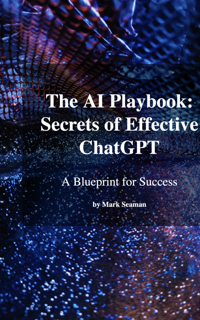
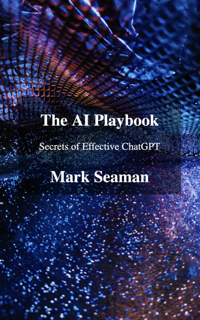
AI Publication

diff --git a/ai/Images/Cover.html b/ai/Images/Cover.html
@@ -19,10 +19,10 @@
 
         .book-overlay {
             position: absolute;
-            top: 20%;
+            top: 30%;
             left: 10%;
             width: 80%;
-            height: 50%;
+            height: 30%;
             background-color: rgba(0, 0, 0, 0.5);
             display: flex;
             flex-direction: column;
@@ -38,7 +38,7 @@
         }
 
         .book-author {
-            font-size: 1.5rem;
+            font-size: 4rem;
             color: white;
             margin-bottom: 0.5rem;
         }
@@ -53,11 +53,11 @@
 
 <body>
     <div class="book-cover">
-        <img src="./CoverImage.jpg" alt="The AI Playbook: Secrets of Effective ChatGPT">
+        <img src="./CoverImage.png" alt="The AI Playbook: Secrets of Effective ChatGPT">
         <div class="book-overlay">
-            <h1 class="book-title">The AI Playbook: Secrets of Effective ChatGPT</h1>
-            <p class="book-tagline">A Blueprint for Success</p>
-            <h2 class="book-author">by Mark Seaman</h2>
+            <h1 class="book-title">The AI Playbook</h1>
+            <p class="book-tagline">Secrets of Effective ChatGPT</p>
+            <h2 class="book-author">Mark Seaman</h2>
         </div>
     </div>
 </body>

diff --git a/ai/AI/EditorialDesk/Draft.md b/ai/AI/EditorialDesk/Draft.md
@@ -1,1 +1,101 @@
-new file
+# How AI Can Revolutionize the Writing Process
+
+Writing is both an art and a craft. It requires creativity and skill, but it also demands discipline
+and perseverance. As a writer and teacher, my goal is to help other authors harness the power of
+artificial intelligence (AI) to speed up their work while improving the quality. In this article, I
+will show you how AI can transform the editorial desk, enhance the refinement process, and
+facilitate iterative development.
+
+## The Editorial Desk: Where Ideas Take Shape
+
+The editorial desk is where the magic happens. It's the place where authors pour their thoughts onto
+the paper, refining them over time to create a masterpiece. Traditionally, the process involves
+several drafts, each focusing on a specific aspect of improvement.
+
+First, there's the initial draft, where authors capture their ideas without worrying about
+structure, clarity, or polish. It's the raw material from which the final piece will emerge. Next
+comes the rewrite for structure. Here, authors rearrange paragraphs, reorganize ideas, and ensure a
+logical flow. Then follows the rewrite for clarity, where authors refine their language, simplify
+complex concepts, and make their writing accessible to a wider audience. Lastly, there's the
+rewrite for polish, where minute details like word choice, tone of voice, grammar, and spelling are
+perfected.
+
+## Refinement Made Smarter with AI
+
+The refinement process is where AI can truly shine. By leveraging the power of AI, authors can
+expedite and enhance their work across various dimensions. AI algorithms can assist in content
+structure and flow, word selection, tone of voice, and even grammar and spelling.
+
+Let's start with content structure and flow. AI tools can analyze the logical flow of your writing,
+identifying areas where the narrative might be disjointed or the argument might lack coherence. By
+suggesting structural improvements and highlighting gaps in the flow, AI can be an invaluable asset
+in crafting a well-structured piece.
+
+Word selection is another area where AI can be of great help. With access to vast databases of
+language usage, AI algorithms can provide alternative word choices, making your writing more
+precise, evocative, and engaging. Whether you're searching for a stronger verb or a more
+descriptive adjective, AI can assist in finding the perfect word to bring your ideas to life.
+
+Furthermore, AI can aid in refining the tone of voice. Whether your writing requires a formal,
+academic tone, or a casual, conversational style, AI can suggest adjustments to ensure your voice
+resonates with your intended audience. By analyzing patterns in successful writing and identifying
+markers of different tones, AI can help you strike the right chord with your readers.
+
+Finally, let's talk about grammar and spelling. While human proofreaders are still indispensable,
+AI-powered grammar and spell-checkers can serve as an additional line of defense. These tools can
+detect common errors, highlight potential pitfalls, and suggest corrections, making the editing
+process more efficient and effective.
+
+## Iterative Development for Continuous Improvement
+
+When it comes to writing, the journey is as important as the destination. Iterative development is a
+vital component of the writing process, allowing authors to refine their work through multiple
+iterations. AI can facilitate this iterative approach by providing valuable insights and
+recommendations at each stage.
+
+Every draft you produce should be an improvement over the previous one. By leveraging AI, you can
+write the content 3-4 times, refining it with the guidance of AI algorithms at each iteration. This
+iterative approach ensures that your writing becomes more polished and compelling with every
+draft.
+
+To add a layer of maturity to your work, it's beneficial to let it age. Give yourself some time away
+from your writing, allowing your mind to refresh and approach it with a fresh perspective. When you
+revisit your work after a break, you'll be able to identify areas that need improvement that might
+have been overlooked before.
+
+Incorporating review comments is crucial in the iterative development process. AI can assist here by
+analyzing feedback and suggesting actionable improvements. Review comments might point to areas of
+confusion, inconsistencies, or opportunities for expansion. By incorporating these suggestions, you
+can enhance the overall quality and coherence of your writing.
+
+Finally, it's helpful to work in small units of 4-5 pages. Breaking your writing into manageable
+chunks enables you to focus on specific sections, ensuring they are as polished as possible. With
+AI as your companion, you can enhance these smaller units by leveraging its content structure
+suggestions, word selection insights, and grammar & spelling checks.
+
+## Embracing the AI Writing Revolution
+
+In conclusion, AI has the potential to revolutionize the writing process, empowering authors to
+produce high-quality work efficiently. By incorporating AI tools into the editorial desk,
+refinement process, and iterative development, writers can leverage its capabilities to elevate
+their craft.
+
+As a writer and teacher, it's my duty to guide authors towards adopting AI in a professional yet
+friendly manner. Embracing the power of AI doesn't mean replacing human creativity or talent; it
+means enhancing it.AI can analyze content structure and flow, suggest alternative word choices,
+refine the tone of voice, and assist with grammar and spelling. Its capabilities can significantly
+speed up the refinement process and improve the overall quality of the writing.
+
+When it comes to iterative development, AI can be a valuable companion. Each draft should be better
+than the previous one, and AI algorithms can guide authors in refining their work through multiple
+iterations. Allowing the work to age before revisiting it, incorporating feedback and review
+comments, and working in small units of 4-5 pages can further enhance the iterative development
+process.
+
+It's important to embrace the AI writing revolution not as a threat, but as an opportunity to
+enhance our craft. By harnessing the power of AI, writers can revolutionize the way they work,
+making it faster, more efficient, and ultimately producing higher-quality content.
+
+So, let's eagerly embrace AI and let it amplify our writing capabilities. With AI as our partner, we
+can unleash our creativity and produce written works that captivate, inspire, and make a lasting
+impact on our readers.

diff --git a/ai/Pub/EditorialDesk.md b/ai/Pub/EditorialDesk.md
@@ -1,0 +1,101 @@
+# How AI Can Revolutionize the Writing Process
+
+Writing is both an art and a craft. It requires creativity and skill, but it also demands discipline
+and perseverance. As a writer and teacher, my goal is to help other authors harness the power of
+artificial intelligence (AI) to speed up their work while improving the quality. In this article, I
+will show you how AI can transform the editorial desk, enhance the refinement process, and
+facilitate iterative development.
+
+## The Editorial Desk: Where Ideas Take Shape
+
+The editorial desk is where the magic happens. It's the place where authors pour their thoughts onto
+the paper, refining them over time to create a masterpiece. Traditionally, the process involves
+several drafts, each focusing on a specific aspect of improvement.
+
+First, there's the initial draft, where authors capture their ideas without worrying about
+structure, clarity, or polish. It's the raw material from which the final piece will emerge. Next
+comes the rewrite for structure. Here, authors rearrange paragraphs, reorganize ideas, and ensure a
+logical flow. Then follows the rewrite for clarity, where authors refine their language, simplify
+complex concepts, and make their writing accessible to a wider audience. Lastly, there's the
+rewrite for polish, where minute details like word choice, tone of voice, grammar, and spelling are
+perfected.
+
+## Refinement Made Smarter with AI
+
+The refinement process is where AI can truly shine. By leveraging the power of AI, authors can
+expedite and enhance their work across various dimensions. AI algorithms can assist in content
+structure and flow, word selection, tone of voice, and even grammar and spelling.
+
+Let's start with content structure and flow. AI tools can analyze the logical flow of your writing,
+identifying areas where the narrative might be disjointed or the argument might lack coherence. By
+suggesting structural improvements and highlighting gaps in the flow, AI can be an invaluable asset
+in crafting a well-structured piece.
+
+Word selection is another area where AI can be of great help. With access to vast databases of
+language usage, AI algorithms can provide alternative word choices, making your writing more
+precise, evocative, and engaging. Whether you're searching for a stronger verb or a more
+descriptive adjective, AI can assist in finding the perfect word to bring your ideas to life.
+
+Furthermore, AI can aid in refining the tone of voice. Whether your writing requires a formal,
+academic tone, or a casual, conversational style, AI can suggest adjustments to ensure your voice
+resonates with your intended audience. By analyzing patterns in successful writing and identifying
+markers of different tones, AI can help you strike the right chord with your readers.
+
+Finally, let's talk about grammar and spelling. While human proofreaders are still indispensable,
+AI-powered grammar and spell-checkers can serve as an additional line of defense. These tools can
+detect common errors, highlight potential pitfalls, and suggest corrections, making the editing
+process more efficient and effective.
+
+## Iterative Development for Continuous Improvement
+
+When it comes to writing, the journey is as important as the destination. Iterative development is a
+vital component of the writing process, allowing authors to refine their work through multiple
+iterations. AI can facilitate this iterative approach by providing valuable insights and
+recommendations at each stage.
+
+Every draft you produce should be an improvement over the previous one. By leveraging AI, you can
+write the content 3-4 times, refining it with the guidance of AI algorithms at each iteration. This
+iterative approach ensures that your writing becomes more polished and compelling with every
+draft.
+
+To add a layer of maturity to your work, it's beneficial to let it age. Give yourself some time away
+from your writing, allowing your mind to refresh and approach it with a fresh perspective. When you
+revisit your work after a break, you'll be able to identify areas that need improvement that might
+have been overlooked before.
+
+Incorporating review comments is crucial in the iterative development process. AI can assist here by
+analyzing feedback and suggesting actionable improvements. Review comments might point to areas of
+confusion, inconsistencies, or opportunities for expansion. By incorporating these suggestions, you
+can enhance the overall quality and coherence of your writing.
+
+Finally, it's helpful to work in small units of 4-5 pages. Breaking your writing into manageable
+chunks enables you to focus on specific sections, ensuring they are as polished as possible. With
+AI as your companion, you can enhance these smaller units by leveraging its content structure
+suggestions, word selection insights, and grammar & spelling checks.
+
+## Embracing the AI Writing Revolution
+
+In conclusion, AI has the potential to revolutionize the writing process, empowering authors to
+produce high-quality work efficiently. By incorporating AI tools into the editorial desk,
+refinement process, and iterative development, writers can leverage its capabilities to elevate
+their craft.
+
+As a writer and teacher, it's my duty to guide authors towards adopting AI in a professional yet
+friendly manner. Embracing the power of AI doesn't mean replacing human creativity or talent; it
+means enhancing it.AI can analyze content structure and flow, suggest alternative word choices,
+refine the tone of voice, and assist with grammar and spelling. Its capabilities can significantly
+speed up the refinement process and improve the overall quality of the writing.
+
+When it comes to iterative development, AI can be a valuable companion. Each draft should be better
+than the previous one, and AI algorithms can guide authors in refining their work through multiple
+iterations. Allowing the work to age before revisiting it, incorporating feedback and review
+comments, and working in small units of 4-5 pages can further enhance the iterative development
+process.
+
+It's important to embrace the AI writing revolution not as a threat, but as an opportunity to
+enhance our craft. By harnessing the power of AI, writers can revolutionize the way they work,
+making it faster, more efficient, and ultimately producing higher-quality content.
+
+So, let's eagerly embrace AI and let it amplify our writing capabilities. With AI as our partner, we
+can unleash our creativity and produce written works that captivate, inspire, and make a lasting
+impact on our readers.

diff --git a/ai/AI/Publishing/Draft.md b/ai/AI/Publishing/Draft.md
@@ -1,0 +1,40 @@
+# Publish Your Masterpiece
+
+Using AI to Speed Up and Improve your Writing Process
+
+As a writer and teacher, your job is to train other authors on how to effectively utilize AI to expedite their work while enhancing its quality. By incorporating AI tools into their writing process, authors can streamline their workflow and produce high-quality content faster than ever before. In this article, we will explore various strategies and techniques that writers can employ to leverage AI for their benefit.
+
+## Body of Knowledge: Organize Ideas as a Network
+
+When writing a non-fiction book, you are essentially creating a body of knowledge. To effectively organize your ideas, consider structuring them as a network. This network can be visualized as a hierarchy, with each level being four times bigger than the previous one. For example, if your book has six levels, each level will contain four times as much information as the previous level.
+
+## Deliver a Smaller Payload Less Often
+
+To optimize your writing process and ensure efficient delivery of your content, it is advisable to go one level smaller than what you initially planned. Instead of overwhelming your readers with a massive amount of information all at once, consider delivering larger content in several smaller steps. One effective way to achieve this is to serialize your content as a blog, with each blog post consisting of one page or approximately 50 words. By publishing your content in small, digestible increments, you can engage your audience and maintain their interest throughout the writing process.
+
+## Build a Trust Ramp for Your Knowledge
+
+When sharing your knowledge, it is crucial to establish trust with your audience. To achieve this, consider building a trust ramp comprising different levels of content. Each level progressively provides more in-depth knowledge and requires a higher time investment from the reader. By structuring your content in this manner, you allow readers to engage with your ideas at their own pace, starting from bite-sized messages and gradually moving towards longer, more intensive reading experiences. Here are the different levels of the trust ramp, along with their approximate time commitments:
+
+- Level 1 - Message: 50 words in 1 minute
+- Level 2 - Post: 250 words or 1 page in 5 minutes
+- Level 3 - Lesson: 1,000 words or 4 pages in 20 minutes
+- Level 4 - Seminar: 5,000 words or 20 pages in an hour
+- Level 5 - Workshop: 20,000 words or 80 pages in a day
+- Level 6 - Course: 80,000 words or 320 pages in a week
+
+By providing content at different levels, you cater to a diverse audience with varying levels of knowledge and time availability.
+
+## Use Multiple Types of Media
+
+When leveraging AI to enhance your writing process, it is essential to consider utilizing multiple types of media. While written text is the default mode, incorporating other media formats such as videos, live talks, podcasts, and interactive elements can significantly enhance the learning experience for your readers. Additionally, different media formats can attract a more diverse audience and help you convey your ideas more effectively. Keep in mind that the size of your content can often be determined by the number of words. For instance, a written text of one page (approximately 250 words) can be translated into a five-minute video presentation.
+
+## Integrate All Content
+
+To create a cohesive learning experience, it is crucial to integrate various types of content and connect your products. By interconnecting different products, you allow them to refer to each other, creating a seamless flow of information. However, it is essential to ensure that the information is granular and does not repeat itself unnecessarily. By utilizing a publishing platform, such as Teachable.com, you can easily deliver your content to your audience while maintaining organization and coherence.
+
+## Publish on a Schedule
+
+To build a sustainable writing practice and effectively leverage AI in your writing process, it is crucial to create a consistent publishing schedule. Set dedicated hours each week for your writing and stick to them religiously. By committing to a schedule, you not only ensure regular content delivery but also establish a strong work ethic that can fuel your creative process. Moreover, consider building a product ramp from Level 1 to Level 6, gradually increasing the depth and complexity of your content. Graduated pricing, with free levels to pique readers' interest, can also be an effective strategy to attract a broader audience and generate more engagement.
+
+In conclusion, incorporating AI into your writing process can significantly speed up your work while enhancing its quality. By utilizing techniques such as organizing your ideas as a network, delivering smaller content payloads, building trust ramps for your knowledge, using multiple types of media, integrating your content, and publishing on a schedule, you can harness the power of AI to become a more productive and effective writer. So, embrace AI and embark on your journey to publish your masterpiece.

diff --git a/ai/Pub/Publishing.md b/ai/Pub/Publishing.md
@@ -1,0 +1,40 @@
+# Publish Your Masterpiece
+
+Using AI to Speed Up and Improve your Writing Process
+
+As a writer and teacher, your job is to train other authors on how to effectively utilize AI to expedite their work while enhancing its quality. By incorporating AI tools into their writing process, authors can streamline their workflow and produce high-quality content faster than ever before. In this article, we will explore various strategies and techniques that writers can employ to leverage AI for their benefit.
+
+## Body of Knowledge: Organize Ideas as a Network
+
+When writing a non-fiction book, you are essentially creating a body of knowledge. To effectively organize your ideas, consider structuring them as a network. This network can be visualized as a hierarchy, with each level being four times bigger than the previous one. For example, if your book has six levels, each level will contain four times as much information as the previous level.
+
+## Deliver a Smaller Payload Less Often
+
+To optimize your writing process and ensure efficient delivery of your content, it is advisable to go one level smaller than what you initially planned. Instead of overwhelming your readers with a massive amount of information all at once, consider delivering larger content in several smaller steps. One effective way to achieve this is to serialize your content as a blog, with each blog post consisting of one page or approximately 50 words. By publishing your content in small, digestible increments, you can engage your audience and maintain their interest throughout the writing process.
+
+## Build a Trust Ramp for Your Knowledge
+
+When sharing your knowledge, it is crucial to establish trust with your audience. To achieve this, consider building a trust ramp comprising different levels of content. Each level progressively provides more in-depth knowledge and requires a higher time investment from the reader. By structuring your content in this manner, you allow readers to engage with your ideas at their own pace, starting from bite-sized messages and gradually moving towards longer, more intensive reading experiences. Here are the different levels of the trust ramp, along with their approximate time commitments:
+
+- Level 1 - Message: 50 words in 1 minute
+- Level 2 - Post: 250 words or 1 page in 5 minutes
+- Level 3 - Lesson: 1,000 words or 4 pages in 20 minutes
+- Level 4 - Seminar: 5,000 words or 20 pages in an hour
+- Level 5 - Workshop: 20,000 words or 80 pages in a day
+- Level 6 - Course: 80,000 words or 320 pages in a week
+
+By providing content at different levels, you cater to a diverse audience with varying levels of knowledge and time availability.
+
+## Use Multiple Types of Media
+
+When leveraging AI to enhance your writing process, it is essential to consider utilizing multiple types of media. While written text is the default mode, incorporating other media formats such as videos, live talks, podcasts, and interactive elements can significantly enhance the learning experience for your readers. Additionally, different media formats can attract a more diverse audience and help you convey your ideas more effectively. Keep in mind that the size of your content can often be determined by the number of words. For instance, a written text of one page (approximately 250 words) can be translated into a five-minute video presentation.
+
+## Integrate All Content
+
+To create a cohesive learning experience, it is crucial to integrate various types of content and connect your products. By interconnecting different products, you allow them to refer to each other, creating a seamless flow of information. However, it is essential to ensure that the information is granular and does not repeat itself unnecessarily. By utilizing a publishing platform, such as Teachable.com, you can easily deliver your content to your audience while maintaining organization and coherence.
+
+## Publish on a Schedule
+
+To build a sustainable writing practice and effectively leverage AI in your writing process, it is crucial to create a consistent publishing schedule. Set dedicated hours each week for your writing and stick to them religiously. By committing to a schedule, you not only ensure regular content delivery but also establish a strong work ethic that can fuel your creative process. Moreover, consider building a product ramp from Level 1 to Level 6, gradually increasing the depth and complexity of your content. Graduated pricing, with free levels to pique readers' interest, can also be an effective strategy to attract a broader audience and generate more engagement.
+
+In conclusion, incorporating AI into your writing process can significantly speed up your work while enhancing its quality. By utilizing techniques such as organizing your ideas as a network, delivering smaller content payloads, building trust ramps for your knowledge, using multiple types of media, integrating your content, and publishing on a schedule, you can harness the power of AI to become a more productive and effective writer. So, embrace AI and embark on your journey to publish your masterpiece.

diff --git a/ai/AI/Publishing/Outline.md b/ai/AI/Publishing/Outline.md
@@ -1,0 +1,44 @@
+# Publish Your Masterpiece
+
+Body of Knowledge is a network
+
+- Non-fiction book represent a body of knowledge
+- Ideas can be organized as hierarchy
+- Each level is four times bigger
+- A teaching book has 6 levels
+
+Deliver a smaller payload less often
+
+- Go one level smaller than what you were planning
+- Deliver larger content is several steps
+- Serialize your content as a blog (1 page x 50)
+- Publish at multiple sizes
+
+Build a trust ramp for your knowledge
+
+- Level 1 - Message - 50 words in 1 minute
+- Level 2 - Post - 250 words/1 page in 5 minutes
+- Level 3 - Lesson - 1,000 words/4 pages in 20 minutes
+- Level 4 - Seminar - 5,000 words/20 pages in an hour
+- Level 5 - Workshop - 20,000/80 pages words in a day
+- Level 6 - Course - 80,000 words/320 pages in a week
+
+Use multiple types of media
+
+- Size is determined by words 
+- Written text of 1 page (250 words) = video (5 minutes)
+- Consider all media - text, video, live talks, podcast
+
+Integrate all content
+
+- Products can be interconnected an refer to each other
+- Make the information granular
+- Don't repeat yourself
+- Use a publishing platform (like Teachable.com) for delivery
+
+Publish on a schedule
+
+- Create a publishing schedule that is sustainable
+- Work consistent hours each week
+- Build a product ramp from Level 1 - Level 6
+- Use graduated pricing with free levels to build interest

diff --git a/ai/Pub/Index.md b/ai/Pub/Index.md
@@ -10,6 +10,10 @@
 
 * [Writing Techniques](/ai/CoffeeShop.md)                                       
 
+* [How AI Can Revolutionize the Writing Process](/ai/EditorialDesk.md)          
+
+* [Publish Your Masterpiece](/ai/Publishing.md)                                 
+
 * [Common Mistakes When Using AI](/ai/Mistakes.md)                              
 
 * [5 Keys to ChatGPT Prompt Engineering](/ai/PromptEngineering.md)              
